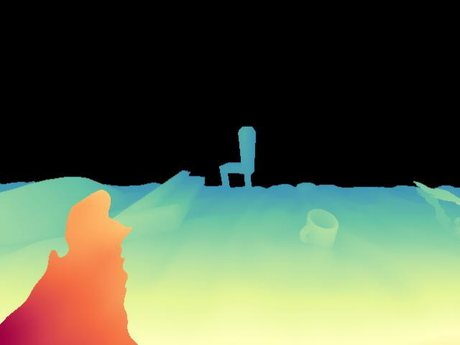
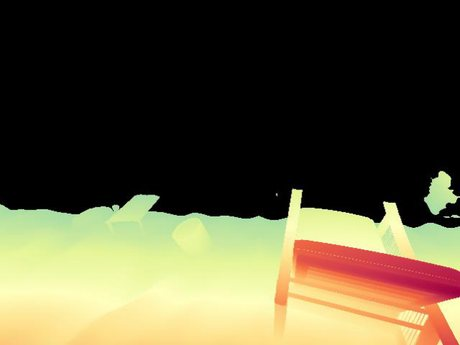
One-row real-world + SeaStereo; reorder dataset after comparisons
- Slice the real-world lab-tank grid (watertank) and a second SeaStereo
  grid into per-panel images; add both to the "More qualitative results"
  gallery as one-sample-per-row tabs. Underwater group order is now
  TartanAir-UW -> SQUID -> Real-world tank -> SeaStereo (SeaStereo merges
  both synthetic grids = 4 scenes). Real-world tab is captioned close-up.
- Move the whole SeaStereo Dataset section to AFTER the qualitative
  comparisons. Drop the cramped condition-stratified figure from it.
- Real-world section is now a metrics table only; its visualization moved
  to the gallery (with a pointer link).
- Replace the dark "Jerlov IB - deep" montage sample (washed-out, white mug)
  with a cleaner "Jerlov III - shallow" render.
- Add ?fig= gallery deep-link.

diff --git a/index.html b/index.html
@@ -310,71 +310,15 @@
 
 
 
-<!-- ================= DATASET ================= -->
-<section class="section section--soft" id="dataset">
-  <div class="container">
-    <h2 class="section__title">SeaStereo Dataset</h2>
-    <p class="lead lead--center reveal">A physically-rendered underwater stereo corpus with dense disparity ground truth,
-      released with the paper.</p>
 
-    <div class="dstats reveal">
-      <div><span>~40K</span>stereo pairs</div>
-      <div><span>7</span>Jerlov water types</div>
-      <div><span>1000+</span>configurations</div>
-      <div><span>dense</span>GT disparity</div>
-    </div>
-
-    <div class="split reveal">
-      <figure class="figure">
-        <img src="static/images/dataset_pipeline.png" alt="SeaStereo rendering pipeline: ShapeNet objects composited over marine backgrounds in Blender under Jerlov water models." loading="lazy" />
-        <figcaption><strong>Pipeline.</strong> ShapeNetCore foreground objects composited over real marine backgrounds
-          (coral, fish, shipwrecks) and rendered in Blender under varying Jerlov water types.</figcaption>
-      </figure>
-      <figure class="figure">
-        <img src="static/images/dataset_samples.png" alt="Sample renders from the SeaStereo dataset." loading="lazy" />
-        <figcaption><strong>Samples.</strong> 1008 configurations &times; multiple trajectories, focal lengths, and
-          inter-ocular distances, with random seafloor depth.</figcaption>
-      </figure>
-    </div>
-
-    <figure class="figure figure--inset reveal">
-      <img src="static/images/benchmark_vis.jpg" alt="Condition-stratified SeaStereo visual results." loading="lazy" />
-      <figcaption><strong>Condition-stratified results</strong> across water types and depths.</figcaption>
-    </figure>
-
-    <h3 class="subhead reveal">More dataset samples</h3>
-    <p class="caption reveal">Each card shows the <strong>left</strong> &amp; <strong>right</strong> stereo views and the dense <strong>disparity</strong>
-      ground truth, spanning Jerlov water types I&ndash;3C, seafloor depths, and camera configurations.</p>
-    <div class="montage reveal">
-      <div class="montage__card"><div class="montage__hdr"><span>Left</span><span>Right</span><span>Disp.</span></div><div class="montage__trip"><img src="static/images/montage/m01_L.jpg" alt="" loading="lazy"><img src="static/images/montage/m01_R.jpg" alt="" loading="lazy"><img src="static/images/montage/m01_D.jpg" alt="" loading="lazy"></div><div class="montage__cap">Jerlov IA &middot; shallow</div></div>
-      <div class="montage__card"><div class="montage__hdr"><span>Left</span><span>Right</span><span>Disp.</span></div><div class="montage__trip"><img src="static/images/montage/m02_L.jpg" alt="" loading="lazy"><img src="static/images/montage/m02_R.jpg" alt="" loading="lazy"><img src="static/images/montage/m02_D.jpg" alt="" loading="lazy"></div><div class="montage__cap">Jerlov IB &middot; shallow</div></div>
-      <div class="montage__card"><div class="montage__hdr"><span>Left</span><span>Right</span><span>Disp.</span></div><div class="montage__trip"><img src="static/images/montage/m03_L.jpg" alt="" loading="lazy"><img src="static/images/montage/m03_R.jpg" alt="" loading="lazy"><img src="static/images/montage/m03_D.jpg" alt="" loading="lazy"></div><div class="montage__cap">Jerlov IC &middot; shallow</div></div>
-      <div class="montage__card"><div class="montage__hdr"><span>Left</span><span>Right</span><span>Disp.</span></div><div class="montage__trip"><img src="static/images/montage/m04_L.jpg" alt="" loading="lazy"><img src="static/images/montage/m04_R.jpg" alt="" loading="lazy"><img src="static/images/montage/m04_D.jpg" alt="" loading="lazy"></div><div class="montage__cap">Jerlov 3C &middot; shallow</div></div>
-      <div class="montage__card"><div class="montage__hdr"><span>Left</span><span>Right</span><span>Disp.</span></div><div class="montage__trip"><img src="static/images/montage/m05_L.jpg" alt="" loading="lazy"><img src="static/images/montage/m05_R.jpg" alt="" loading="lazy"><img src="static/images/montage/m05_D.jpg" alt="" loading="lazy"></div><div class="montage__cap">Jerlov IB &middot; shallow</div></div>
-      <div class="montage__card"><div class="montage__hdr"><span>Left</span><span>Right</span><span>Disp.</span></div><div class="montage__trip"><img src="static/images/montage/m06_L.jpg" alt="" loading="lazy"><img src="static/images/montage/m06_R.jpg" alt="" loading="lazy"><img src="static/images/montage/m06_D.jpg" alt="" loading="lazy"></div><div class="montage__cap">Jerlov II &middot; shallow</div></div>
-      <div class="montage__card"><div class="montage__hdr"><span>Left</span><span>Right</span><span>Disp.</span></div><div class="montage__trip"><img src="static/images/montage/m07_L.jpg" alt="" loading="lazy"><img src="static/images/montage/m07_R.jpg" alt="" loading="lazy"><img src="static/images/montage/m07_D.jpg" alt="" loading="lazy"></div><div class="montage__cap">Jerlov IB &middot; deep</div></div>
-      <div class="montage__card"><div class="montage__hdr"><span>Left</span><span>Right</span><span>Disp.</span></div><div class="montage__trip"><img src="static/images/montage/m08_L.jpg" alt="" loading="lazy"><img src="static/images/montage/m08_R.jpg" alt="" loading="lazy"><img src="static/images/montage/m08_D.jpg" alt="" loading="lazy"></div><div class="montage__cap">Jerlov I &middot; deep</div></div>
-      <div class="montage__card"><div class="montage__hdr"><span>Left</span><span>Right</span><span>Disp.</span></div><div class="montage__trip"><img src="static/images/montage/m09_L.jpg" alt="" loading="lazy"><img src="static/images/montage/m09_R.jpg" alt="" loading="lazy"><img src="static/images/montage/m09_D.jpg" alt="" loading="lazy"></div><div class="montage__cap">Jerlov II &middot; deep</div></div>
-      <div class="montage__card"><div class="montage__hdr"><span>Left</span><span>Right</span><span>Disp.</span></div><div class="montage__trip"><img src="static/images/montage/m10_L.jpg" alt="" loading="lazy"><img src="static/images/montage/m10_R.jpg" alt="" loading="lazy"><img src="static/images/montage/m10_D.jpg" alt="" loading="lazy"></div><div class="montage__cap">Jerlov I &middot; deep</div></div>
-      <div class="montage__card"><div class="montage__hdr"><span>Left</span><span>Right</span><span>Disp.</span></div><div class="montage__trip"><img src="static/images/montage/m11_L.jpg" alt="" loading="lazy"><img src="static/images/montage/m11_R.jpg" alt="" loading="lazy"><img src="static/images/montage/m11_D.jpg" alt="" loading="lazy"></div><div class="montage__cap">Jerlov IA &middot; deep</div></div>
-      <div class="montage__card"><div class="montage__hdr"><span>Left</span><span>Right</span><span>Disp.</span></div><div class="montage__trip"><img src="static/images/montage/m12_L.jpg" alt="" loading="lazy"><img src="static/images/montage/m12_R.jpg" alt="" loading="lazy"><img src="static/images/montage/m12_D.jpg" alt="" loading="lazy"></div><div class="montage__cap">Jerlov IB &middot; shallow</div></div>
-    </div>
-
-    <div class="center reveal">
-      <a class="btn" href="#" title="Dataset download (coming soon)">
-        <svg viewBox="0 0 24 24" aria-hidden="true"><path d="M12 3v12m0 0l-4-4m4 4l4-4M4 21h16" fill="none" stroke="currentColor" stroke-width="1.8" stroke-linecap="round" stroke-linejoin="round"/></svg>
-        Download SeaStereo <span class="pill__soon">soon</span>
-      </a>
-    </div>
-  </div>
-</section>
 
 <!-- ================= SUPPLEMENTARY ================= -->
 <section class="section section--soft" id="supplementary">
   <div class="container container--wide">
     <h2 class="section__title">More qualitative results</h2>
-    <p class="lead lead--center reveal">Per-benchmark comparisons from the supplementary material, <strong>one scene per row</strong>:
-      the input alongside recent baselines and <strong>LinStereo&nbsp;(Ours, highlighted)</strong>. Pick a benchmark.</p>
+    <p class="lead lead--center reveal">Per-benchmark comparisons, <strong>one scene per row</strong>: the input
+      alongside recent baselines and <strong>LinStereo&nbsp;(Ours, highlighted)</strong> &mdash; across standard,
+      underwater, real-world, and synthetic domains. Pick a benchmark.</p>
 
   <div class="gallery__group reveal">
     <h3 class="subhead">Standard benchmarks</h3>
@@ -552,11 +496,12 @@
     </div>
   </div>
   <div class="gallery__group reveal">
-    <h3 class="subhead">Underwater &amp; synthetic</h3>
-    <div class="tabs" data-gallery="uw" role="tablist" aria-label="Underwater &amp; synthetic">
+    <h3 class="subhead">Underwater, real-world &amp; synthetic</h3>
+    <div class="tabs" data-gallery="uw" role="tablist" aria-label="Underwater, real-world &amp; synthetic">
       <button class="tab is-active" data-fig="tartanair1" role="tab" aria-selected="true">TartanAir-UW&nbsp;&#9312;</button>
       <button class="tab" data-fig="tartanair2" role="tab" aria-selected="false">TartanAir-UW&nbsp;&#9313;</button>
       <button class="tab" data-fig="squid" role="tab" aria-selected="false">SQUID</button>
+      <button class="tab" data-fig="realworld" role="tab" aria-selected="false">Real-world&nbsp;tank</button>
       <button class="tab" data-fig="seastereo" role="tab" aria-selected="false">SeaStereo</button>
     </div>
     <div class="gallery" data-gallery="uw">
@@ -671,6 +616,44 @@
       </div>
       <figcaption><strong>SQUID (real-world).</strong> Shallow sandy seafloor, near-field coral and rock, man-made equipment. Under strong color attenuation the baselines show depth-scale inconsistencies and bleeding; LinStereo keeps stable depth and recovers fine detail. Black = unavailable depth.</figcaption>
     </figure>
+    <figure class="figure gallery__item" data-fig="realworld">
+      <div class="panelset" style="--cols:9">
+        <div class="panelset__head">
+          <span>Input</span>
+          <span>Right</span>
+          <span>GT</span>
+          <span>IGEV++</span>
+          <span>MGStereo</span>
+          <span>FoundationStereo</span>
+          <span>DeFOM-Stereo</span>
+          <span>Stereo Anywhere</span>
+          <span class="is-ours">Ours</span>
+        </div>
+        <div class="panelrow">
+          <img class="panelrow__img" src="static/images/panels/realworld_s0_p0.jpg" alt="Real-world tank Input" loading="lazy">
+          <img class="panelrow__img" src="static/images/panels/realworld_s0_p1.jpg" alt="Real-world tank Right" loading="lazy">
+          <img class="panelrow__img" src="static/images/panels/realworld_s0_p2.jpg" alt="Real-world tank GT" loading="lazy">
+          <img class="panelrow__img" src="static/images/panels/realworld_s0_p3.jpg" alt="Real-world tank IGEV++" loading="lazy">
+          <img class="panelrow__img" src="static/images/panels/realworld_s0_p4.jpg" alt="Real-world tank MGStereo" loading="lazy">
+          <img class="panelrow__img" src="static/images/panels/realworld_s0_p5.jpg" alt="Real-world tank FoundationStereo" loading="lazy">
+          <img class="panelrow__img" src="static/images/panels/realworld_s0_p6.jpg" alt="Real-world tank DeFOM-Stereo" loading="lazy">
+          <img class="panelrow__img" src="static/images/panels/realworld_s0_p7.jpg" alt="Real-world tank Stereo Anywhere" loading="lazy">
+          <img class="panelrow__img is-ours" src="static/images/panels/realworld_s0_p8.jpg" alt="Real-world tank Ours" loading="lazy">
+        </div>
+        <div class="panelrow">
+          <img class="panelrow__img" src="static/images/panels/realworld_s1_p0.jpg" alt="Real-world tank Input" loading="lazy">
+          <img class="panelrow__img" src="static/images/panels/realworld_s1_p1.jpg" alt="Real-world tank Right" loading="lazy">
+          <img class="panelrow__img" src="static/images/panels/realworld_s1_p2.jpg" alt="Real-world tank GT" loading="lazy">
+          <img class="panelrow__img" src="static/images/panels/realworld_s1_p3.jpg" alt="Real-world tank IGEV++" loading="lazy">
+          <img class="panelrow__img" src="static/images/panels/realworld_s1_p4.jpg" alt="Real-world tank MGStereo" loading="lazy">
+          <img class="panelrow__img" src="static/images/panels/realworld_s1_p5.jpg" alt="Real-world tank FoundationStereo" loading="lazy">
+          <img class="panelrow__img" src="static/images/panels/realworld_s1_p6.jpg" alt="Real-world tank DeFOM-Stereo" loading="lazy">
+          <img class="panelrow__img" src="static/images/panels/realworld_s1_p7.jpg" alt="Real-world tank Stereo Anywhere" loading="lazy">
+          <img class="panelrow__img is-ours" src="static/images/panels/realworld_s1_p8.jpg" alt="Real-world tank Ours" loading="lazy">
+        </div>
+      </div>
+      <figcaption><strong>Real-world lab tank &mdash; close-up.</strong> A controlled water tank imaged at close range (&lt;&nbsp;2&nbsp;m) with AprilTag&nbsp;+&nbsp;CAD-model ground truth down to sub-millimetre, including ~3&nbsp;mm taut ropes as a fine-structure stress test. Columns: left, right, GT, then five baselines and <strong>Ours</strong>. LinStereo resolves the thin ropes and tank geometry that baselines blur, fragment, or miss. Black = no valid GT.</figcaption>
+    </figure>
     <figure class="figure gallery__item" data-fig="seastereo">
       <div class="panelset" style="--cols:9">
         <div class="panelset__head">
@@ -706,12 +689,89 @@
           <img class="panelrow__img" src="static/images/panels/seastereo_s1_p7.jpg" alt="SeaStereo Stereo Anywhere" loading="lazy">
           <img class="panelrow__img is-ours" src="static/images/panels/seastereo_s1_p8.jpg" alt="SeaStereo Ours" loading="lazy">
         </div>
+        <div class="panelrow">
+          <img class="panelrow__img" src="static/images/panels/seastereo2_s0_p0.jpg" alt="SeaStereo Input" loading="lazy">
+          <img class="panelrow__img" src="static/images/panels/seastereo2_s0_p1.jpg" alt="SeaStereo Right" loading="lazy">
+          <img class="panelrow__img" src="static/images/panels/seastereo2_s0_p2.jpg" alt="SeaStereo GT" loading="lazy">
+          <img class="panelrow__img" src="static/images/panels/seastereo2_s0_p3.jpg" alt="SeaStereo IGEV++" loading="lazy">
+          <img class="panelrow__img" src="static/images/panels/seastereo2_s0_p4.jpg" alt="SeaStereo MGStereo" loading="lazy">
+          <img class="panelrow__img" src="static/images/panels/seastereo2_s0_p5.jpg" alt="SeaStereo FoundationStereo" loading="lazy">
+          <img class="panelrow__img" src="static/images/panels/seastereo2_s0_p6.jpg" alt="SeaStereo DeFOM-Stereo" loading="lazy">
+          <img class="panelrow__img" src="static/images/panels/seastereo2_s0_p7.jpg" alt="SeaStereo Stereo Anywhere" loading="lazy">
+          <img class="panelrow__img is-ours" src="static/images/panels/seastereo2_s0_p8.jpg" alt="SeaStereo Ours" loading="lazy">
+        </div>
+        <div class="panelrow">
+          <img class="panelrow__img" src="static/images/panels/seastereo2_s1_p0.jpg" alt="SeaStereo Input" loading="lazy">
+          <img class="panelrow__img" src="static/images/panels/seastereo2_s1_p1.jpg" alt="SeaStereo Right" loading="lazy">
+          <img class="panelrow__img" src="static/images/panels/seastereo2_s1_p2.jpg" alt="SeaStereo GT" loading="lazy">
+          <img class="panelrow__img" src="static/images/panels/seastereo2_s1_p3.jpg" alt="SeaStereo IGEV++" loading="lazy">
+          <img class="panelrow__img" src="static/images/panels/seastereo2_s1_p4.jpg" alt="SeaStereo MGStereo" loading="lazy">
+          <img class="panelrow__img" src="static/images/panels/seastereo2_s1_p5.jpg" alt="SeaStereo FoundationStereo" loading="lazy">
+          <img class="panelrow__img" src="static/images/panels/seastereo2_s1_p6.jpg" alt="SeaStereo DeFOM-Stereo" loading="lazy">
+          <img class="panelrow__img" src="static/images/panels/seastereo2_s1_p7.jpg" alt="SeaStereo Stereo Anywhere" loading="lazy">
+          <img class="panelrow__img is-ours" src="static/images/panels/seastereo2_s1_p8.jpg" alt="SeaStereo Ours" loading="lazy">
+        </div>
       </div>
-      <figcaption><strong>SeaStereo (synthetic).</strong> Left, right, and ground truth, then five baselines and LinStereo (Ours). Baselines show edge noise or shape distortion on elongated structures and over-smooth vegetation, losing depth layering; LinStereo preserves sharp object contours and foreground&ndash;background separation.</figcaption>
+      <figcaption><strong>SeaStereo (synthetic).</strong> Left, right, ground truth, then five baselines and <strong>Ours</strong>, across Jerlov water types. Baselines show edge noise or shape distortion on elongated structures and over-smooth vegetation, losing depth layering; LinStereo preserves sharp object contours and foreground&ndash;background separation.</figcaption>
     </figure>
     </div>
   </div>
   <p class="caption reveal">Reproduced from the paper's supplementary material. See the paper for full discussion.</p>
+  </div>
+</section>
+
+<!-- ================= DATASET ================= -->
+<section class="section section--soft" id="dataset">
+  <div class="container">
+    <h2 class="section__title">SeaStereo Dataset</h2>
+    <p class="lead lead--center reveal">A physically-rendered underwater stereo corpus with dense disparity ground truth,
+      released with the paper.</p>
+
+    <div class="dstats reveal">
+      <div><span>~40K</span>stereo pairs</div>
+      <div><span>7</span>Jerlov water types</div>
+      <div><span>1000+</span>configurations</div>
+      <div><span>dense</span>GT disparity</div>
+    </div>
+
+    <div class="split reveal">
+      <figure class="figure">
+        <img src="static/images/dataset_pipeline.png" alt="SeaStereo rendering pipeline: ShapeNet objects composited over marine backgrounds in Blender under Jerlov water models." loading="lazy" />
+        <figcaption><strong>Pipeline.</strong> ShapeNetCore foreground objects composited over real marine backgrounds
+          (coral, fish, shipwrecks) and rendered in Blender under varying Jerlov water types.</figcaption>
+      </figure>
+      <figure class="figure">
+        <img src="static/images/dataset_samples.png" alt="Sample renders from the SeaStereo dataset." loading="lazy" />
+        <figcaption><strong>Samples.</strong> 1008 configurations &times; multiple trajectories, focal lengths, and
+          inter-ocular distances, with random seafloor depth.</figcaption>
+      </figure>
+    </div>
+
+
+    <h3 class="subhead reveal">More dataset samples</h3>
+    <p class="caption reveal">Each card shows the <strong>left</strong> &amp; <strong>right</strong> stereo views and the dense <strong>disparity</strong>
+      ground truth, spanning Jerlov water types I&ndash;3C, seafloor depths, and camera configurations.</p>
+    <div class="montage reveal">
+      <div class="montage__card"><div class="montage__hdr"><span>Left</span><span>Right</span><span>Disp.</span></div><div class="montage__trip"><img src="static/images/montage/m01_L.jpg" alt="" loading="lazy"><img src="static/images/montage/m01_R.jpg" alt="" loading="lazy"><img src="static/images/montage/m01_D.jpg" alt="" loading="lazy"></div><div class="montage__cap">Jerlov IA &middot; shallow</div></div>
+      <div class="montage__card"><div class="montage__hdr"><span>Left</span><span>Right</span><span>Disp.</span></div><div class="montage__trip"><img src="static/images/montage/m02_L.jpg" alt="" loading="lazy"><img src="static/images/montage/m02_R.jpg" alt="" loading="lazy"><img src="static/images/montage/m02_D.jpg" alt="" loading="lazy"></div><div class="montage__cap">Jerlov IB &middot; shallow</div></div>
+      <div class="montage__card"><div class="montage__hdr"><span>Left</span><span>Right</span><span>Disp.</span></div><div class="montage__trip"><img src="static/images/montage/m03_L.jpg" alt="" loading="lazy"><img src="static/images/montage/m03_R.jpg" alt="" loading="lazy"><img src="static/images/montage/m03_D.jpg" alt="" loading="lazy"></div><div class="montage__cap">Jerlov IC &middot; shallow</div></div>
+      <div class="montage__card"><div class="montage__hdr"><span>Left</span><span>Right</span><span>Disp.</span></div><div class="montage__trip"><img src="static/images/montage/m04_L.jpg" alt="" loading="lazy"><img src="static/images/montage/m04_R.jpg" alt="" loading="lazy"><img src="static/images/montage/m04_D.jpg" alt="" loading="lazy"></div><div class="montage__cap">Jerlov 3C &middot; shallow</div></div>
+      <div class="montage__card"><div class="montage__hdr"><span>Left</span><span>Right</span><span>Disp.</span></div><div class="montage__trip"><img src="static/images/montage/m05_L.jpg" alt="" loading="lazy"><img src="static/images/montage/m05_R.jpg" alt="" loading="lazy"><img src="static/images/montage/m05_D.jpg" alt="" loading="lazy"></div><div class="montage__cap">Jerlov IB &middot; shallow</div></div>
+      <div class="montage__card"><div class="montage__hdr"><span>Left</span><span>Right</span><span>Disp.</span></div><div class="montage__trip"><img src="static/images/montage/m06_L.jpg" alt="" loading="lazy"><img src="static/images/montage/m06_R.jpg" alt="" loading="lazy"><img src="static/images/montage/m06_D.jpg" alt="" loading="lazy"></div><div class="montage__cap">Jerlov II &middot; shallow</div></div>
+      <div class="montage__card"><div class="montage__hdr"><span>Left</span><span>Right</span><span>Disp.</span></div><div class="montage__trip"><img src="static/images/montage/m07_L.jpg" alt="" loading="lazy"><img src="static/images/montage/m07_R.jpg" alt="" loading="lazy"><img src="static/images/montage/m07_D.jpg" alt="" loading="lazy"></div><div class="montage__cap">Jerlov III &middot; shallow</div></div>
+      <div class="montage__card"><div class="montage__hdr"><span>Left</span><span>Right</span><span>Disp.</span></div><div class="montage__trip"><img src="static/images/montage/m08_L.jpg" alt="" loading="lazy"><img src="static/images/montage/m08_R.jpg" alt="" loading="lazy"><img src="static/images/montage/m08_D.jpg" alt="" loading="lazy"></div><div class="montage__cap">Jerlov I &middot; deep</div></div>
+      <div class="montage__card"><div class="montage__hdr"><span>Left</span><span>Right</span><span>Disp.</span></div><div class="montage__trip"><img src="static/images/montage/m09_L.jpg" alt="" loading="lazy"><img src="static/images/montage/m09_R.jpg" alt="" loading="lazy"><img src="static/images/montage/m09_D.jpg" alt="" loading="lazy"></div><div class="montage__cap">Jerlov II &middot; deep</div></div>
+      <div class="montage__card"><div class="montage__hdr"><span>Left</span><span>Right</span><span>Disp.</span></div><div class="montage__trip"><img src="static/images/montage/m10_L.jpg" alt="" loading="lazy"><img src="static/images/montage/m10_R.jpg" alt="" loading="lazy"><img src="static/images/montage/m10_D.jpg" alt="" loading="lazy"></div><div class="montage__cap">Jerlov I &middot; deep</div></div>
+      <div class="montage__card"><div class="montage__hdr"><span>Left</span><span>Right</span><span>Disp.</span></div><div class="montage__trip"><img src="static/images/montage/m11_L.jpg" alt="" loading="lazy"><img src="static/images/montage/m11_R.jpg" alt="" loading="lazy"><img src="static/images/montage/m11_D.jpg" alt="" loading="lazy"></div><div class="montage__cap">Jerlov IA &middot; deep</div></div>
+      <div class="montage__card"><div class="montage__hdr"><span>Left</span><span>Right</span><span>Disp.</span></div><div class="montage__trip"><img src="static/images/montage/m12_L.jpg" alt="" loading="lazy"><img src="static/images/montage/m12_R.jpg" alt="" loading="lazy"><img src="static/images/montage/m12_D.jpg" alt="" loading="lazy"></div><div class="montage__cap">Jerlov IB &middot; shallow</div></div>
+    </div>
+
+    <div class="center reveal">
+      <a class="btn" href="#" title="Dataset download (coming soon)">
+        <svg viewBox="0 0 24 24" aria-hidden="true"><path d="M12 3v12m0 0l-4-4m4 4l4-4M4 21h16" fill="none" stroke="currentColor" stroke-width="1.8" stroke-linecap="round" stroke-linejoin="round"/></svg>
+        Download SeaStereo <span class="pill__soon">soon</span>
+      </a>
+    </div>
   </div>
 </section>
 
@@ -822,27 +882,20 @@
       (&lt;&nbsp;2&nbsp;m), with AprilTag&nbsp;+&nbsp;CAD-model ground truth down to sub-millimetre &mdash; including
       ~3&nbsp;mm taut ropes as a fine-structure stress test.</p>
 
-    <div class="split">
-      <figure class="figure reveal">
-        <img src="static/images/realworld_tank.jpg" alt="Lab water-tank results comparing LinStereo to baselines at close range." loading="lazy" />
-        <figcaption><strong>Lab tank.</strong> LinStereo leads every metric by a substantial margin where small absolute
-          errors become large relative deviations. Only valid-GT pixels (projecting onto the CAD mesh) are scored.</figcaption>
-      </figure>
-      <div class="reveal">
-        <div class="tablewrap">
-          <table class="tbl tbl--compact">
-            <thead><tr><th class="tl">Method</th><th>Rel&darr;</th><th>RMSE&darr;</th><th>&delta;&lt;1.25&uarr;</th></tr></thead>
-            <tbody>
-              <tr><td class="tl">RAFT-Stereo</td><td>0.06</td><td>0.15</td><td>0.94</td></tr>
-              <tr><td class="tl">FoundationStereo <span class="vit">extra</span></td><td>0.07</td><td>0.18</td><td>0.93</td></tr>
-              <tr><td class="tl">IGEV++ <span class="vit">extra</span></td><td>0.05</td><td>0.12</td><td>0.96</td></tr>
-              <tr class="ours"><td class="tl">LinStereo (Ours)</td><td><b>0.04</b></td><td><b>0.07</b></td><td><b>0.98</b></td></tr>
-            </tbody>
-          </table>
-        </div>
-        <p class="caption">LinStereo attains the lowest error on every metric on this near-range, fine-structure target.</p>
-      </div>
+    <div class="tablewrap reveal" style="max-width:660px;margin:0 auto;">
+      <table class="tbl tbl--compact">
+        <thead><tr><th class="tl">Method</th><th>Rel&darr;</th><th>RMSE&darr;</th><th>&delta;&lt;1.25&uarr;</th></tr></thead>
+        <tbody>
+          <tr><td class="tl">RAFT-Stereo</td><td>0.06</td><td>0.15</td><td>0.94</td></tr>
+          <tr><td class="tl">FoundationStereo <span class="vit">extra</span></td><td>0.07</td><td>0.18</td><td>0.93</td></tr>
+          <tr><td class="tl">IGEV++ <span class="vit">extra</span></td><td>0.05</td><td>0.12</td><td>0.96</td></tr>
+          <tr class="ours"><td class="tl">LinStereo (Ours)</td><td><b>0.04</b></td><td><b>0.07</b></td><td><b>0.98</b></td></tr>
+        </tbody>
+      </table>
     </div>
+    <p class="caption reveal">LinStereo attains the lowest error on every metric on this near-range, fine-structure target.
+      Only valid-GT pixels (projecting onto the CAD mesh) are scored. The qualitative close-up comparison is in
+      <a href="#supplementary">More qualitative results &rarr; Real-world&nbsp;tank</a>.</p>
   </div>
 </section>
 

diff --git a/static/js/main.js b/static/js/main.js
@@ -179,4 +179,12 @@
       });
     });
   });
+
+  // optional deep-link: ?fig=realworld preselects a gallery tab (across groups)
+  var initFig = new URLSearchParams(location.search).get("fig");
+  if (initFig) {
+    document.querySelectorAll('.tabs[data-gallery] .tab[data-fig="' + initFig + '"]').forEach(function (t) {
+      t.click();
+    });
+  }
 })();